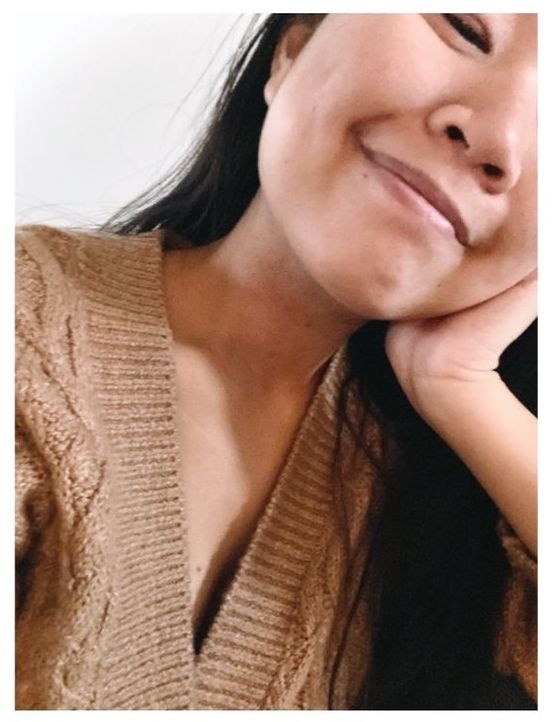
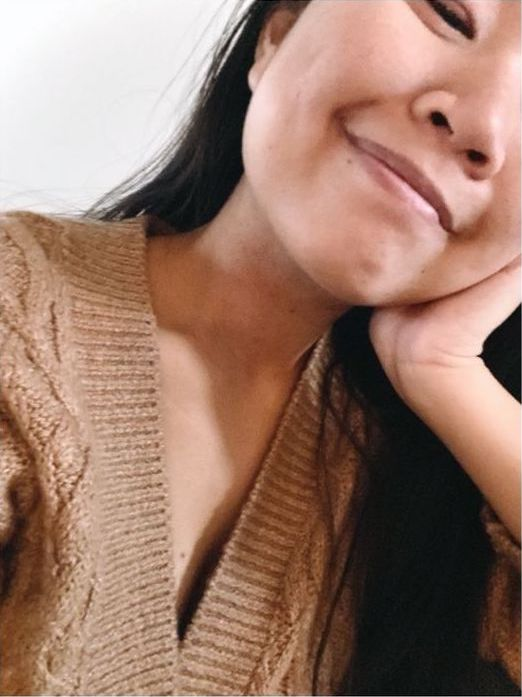
Update About; Add more photos to BU WiCS case study

diff --git a/projects/wics/index.html b/projects/wics/index.html
@@ -55,9 +55,17 @@
 </nav></section><div id="content">
 <section class="col-12 project-photos standard">
     
-    <img src=/images/wics_logo.png />
+    <img src=/images/wics_logo.jpg />
     
-    <img src=/images/wics_tshirt.png />
+    <img src=/images/wics_brand_guide_overview.jpg />
+    
+    <img src=/images/wics_swag.jpg />
+    
+    <img src=/images/wics_colors.jpg />
+    
+    <img src=/images/wics_social_media.jpg />
+    
+    <img src=/images/wics_patterns.png />
     
 </section>
 <section class="content-wrapper project-details">
@@ -71,9 +79,10 @@
     </section>
     <section class="col-6">
         <p>BU WiCS is an organization focused on fostering a sense of community and empowering students in the BU Computer Science department, with a focus on female students who have historically been significantly out-numbered in the department.</p>
-<p>Prior logos for the organization emphasized the technical nature of the organization, but the board members wanted new branding that felt more inviting, more engaging, and more eye-catching.</p>
-<p>The use of a monoline script BU WiCS wordmark to convey the friendliness and personal nature of the group. Condensed proportions and tight spacing give a savvy and casual feel, without being overly cute or feminine and therefore reducing the women of the group to a reductive gender presentation.</p>
-<p>As for the remainder of the logo, the gathering of symbols commonly used in programming nods to the technical context of the group and bringing many different members together. Visually, it creates a patterned texture with the angular letterforms echoing the angular shapes of the symbols and an open outline and has rounded endings to represent the friendly and open nature of the group.</p>
+<p>Prior logos emphasized the technical nature of the organization, but the board members wanted new branding that felt more inviting, more engaging, and more memorable.</p>
+<p>The use of a monoline script BU WiCS wordmark conveys the friendliness and personal nature of the group. Condensed proportions give a savvy and casual feel, without being overly cute or feminine and therefore cofining the group to a reductive gender presentation.</p>
+<p>As for the rest of the logo, the gathering of symbols commonly used in programming nods to the technical context of the group and bringing many different members together. Employing an open outline style and rounded endings, the symbols still feel friendly and open without the patterned texture being too busy or harsh.</p>
+<p>All the elements and colors work together to ground the quirky identity and give a flexible yet simple toolbox for future BU WiCS board members to design collateral in the system. It was crucial to have lots of elements they can work off of as they are, since the system will be managed by people without a design background.</p>
 
     </section>
 </section>

diff --git a/styles/stylesheet.css b/styles/stylesheet.css
@@ -159,6 +159,7 @@ body {
       body .body-wrapper .col-2 img {
         max-width: 225px;
         min-width: -webkit-fill-available;
+        width: 100%;
         margin-right: unset; }
       @media (max-width: 1400px) {
         body .body-wrapper .col-2 {
@@ -210,6 +211,27 @@ body {
     body .body-wrapper p:not(:first-child) {
       margin-block-start: 0.7em;
       margin-block-end: 0.7em; }
+    @media (max-width: 1250px) {
+      body .body-wrapper .about.wrapper {
+        flex-direction: column; } }
+    body .body-wrapper .about .col-2 {
+      display: flex;
+      flex-direction: column;
+      width: 100%; }
+      body .body-wrapper .about .col-2 img {
+        border: 6px solid white; }
+        body .body-wrapper .about .col-2 img:not(:last-child) {
+          margin-bottom: 0.5em; }
+      @media (max-width: 1250px) {
+        body .body-wrapper .about .col-2 {
+          flex-direction: row;
+          align-items: center; }
+          body .body-wrapper .about .col-2 img {
+            min-width: unset;
+            align-self: unset; }
+            body .body-wrapper .about .col-2 img:not(:last-child) {
+              margin-bottom: unset;
+              margin-right: 0.5em; } }
     body .body-wrapper .sidebar {
       padding-top: 100px;
       padding-bottom: 100px;

diff --git a/about/index.html b/about/index.html
@@ -54,8 +54,11 @@
 	
 </nav></section><div id="content">
     <div class="spacer">&nbsp;</div>
-<div class="wrapper">
-    <section class="col-2"><img src="/images/self.jpeg" /></section>
+<div class="wrapper about">
+    <section class="col-2">
+        <img src="/images/self.jpeg" />
+        <img src="/images/PICT0018.jpg" />
+    </section>
     <section class="col-6">
         <h2>Hiya! I’m Tif.</h2>
         <p><i>Currently, I'm seeking full-time or freelance opportunities in brand/editorial design, remote or based in Boston, MA.</i>
